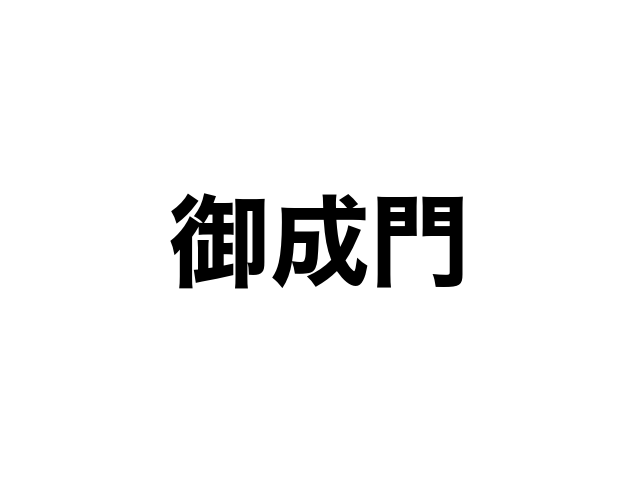
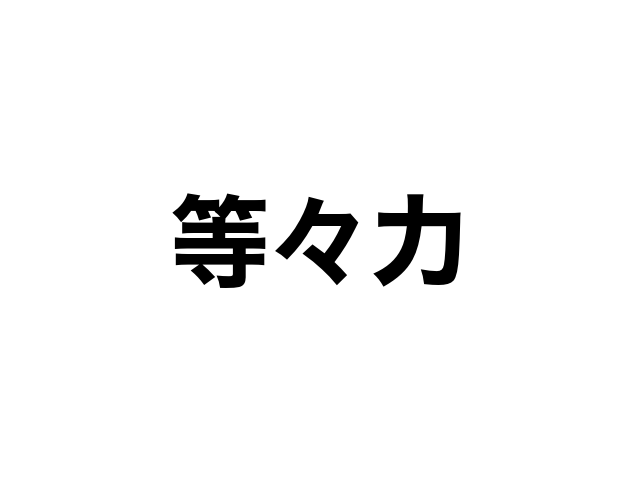
設問数を増やす場合に対応

Changed region(s): [[0.25, 0.4062, 0.75, 0.625]]

diff --git a/quizy.js b/quizy.js
@@ -1,64 +1,75 @@
 'use strict'
 
-// {
-//   document.getElementById("1-1").onclick = function () {
-//     let element = document.getElementById('1-1');
-//     console.log('aaa', window.getComputedStyle(element).getPropertyValue('font-size'))
-
-//     document.getElementById("1-1").style.fontSize = '20px' ;
-//     // console.log(document)
-
-//     // setTimeout(addClassTrue, 5*1000);
-
-//     //中身を表示させたタイミングで最新の情報を取りに行く
-//   };
-// }
-
 /*
-  関数を作る
-  1.ボタンがおされたときにクラス名を付ける
-  クラス名をつける関数を作成
-  button；引数
-  id；引数かつ変数
-  addClassの中で分岐を作る
-  2.たかなわだけの正誤判定
-  引数は複数可能
-
-  答えの場所がランダムに変わってかつそれを指すことができる
-
-  答えの場所を違う場所に設定
   data属性でvalid
-
-  1-1-2
-  1-2-2
-  1-3-2  答えのidを推測（右）⇒1-2-2を探して変更
-
-  一般性　ー答えの推測ー
-
 */
 
-function addClass(trueId, clickedId) {
-  document.getElementById(trueId).classList.add('true')
-  if (trueId == clickedId) {
-    document.getElementById("sucsess").classList.remove("correct");
-  } else {
-    document.getElementById("failed").classList.remove("wrong");
-    document.getElementById(clickedId).classList.add('false');
-  }
+const answers = ["たかなわ", "かめいど", "こうじまち"]
+
+const option = [
+  [answers[0], "こうわ", "たかわ"],
+  [answers[1], "かめど", "かめと"],
+  [answers[2], "おかとまち", "かゆまち"]
+]
+
+
+for (let i = 0; i < answers.length; i++) {
+  document.body.insertAdjacentHTML('beforeend', '<div class="main" id="main"></div>');
+  const main = document.getElementsByClassName("main")[i];
+  main.insertAdjacentHTML('beforeend', `<h1 class="question">${i + 1}. この地名はなんて読む？</h1>`);
+  main.insertAdjacentHTML('beforeend', `<div class="picture"><img src="question${i}.png" alt="高輪"></div>`);
+  main.insertAdjacentHTML('beforeend', '<div class="option-box" id="option-box"></div>');
+  const optionBox = document.getElementsByClassName("option-box")[i];
+    for (let j = 0; j < 3; j++) {
+      optionBox.insertAdjacentHTML('beforeend', `<h3 class="option" id="${i}_${j}" onclick="addClass('${i}', '${j}')">` + option[i][j] + "</h3>")
+    };
+  main.insertAdjacentHTML('beforeend', '<div class="answerBox correct" id="sucsess"></div>')
+  const sucsess = document.getElementsByClassName('correct')[i];
+  sucsess.insertAdjacentHTML('beforeend', '<p class="correctResult">正解！</p>')
+  sucsess.insertAdjacentHTML('beforeend', `<p class="answerSentence">正解は「${answers[i]}」です！</p>`)
+  main.insertAdjacentHTML('beforeend', '<div class="answerBox wrong" id="failed"></div>')
+  const failed = document.getElementsByClassName('wrong')[i];
+  failed.insertAdjacentHTML('beforeend', '<p class="wrongResult">不正解！</p>')
+  failed.insertAdjacentHTML('beforeend', `<p class="answerSentence">正解は「${answers[i]}」です！</p>`)1
+
 }
-
-// for (let index = 1; index < 5; index++) {
-//   console.log(`${index}-1`);
-// }
-
-// for (let index = 1; index < 5; index++) {
-//   const box = document.createElement('div'); //divタグの生成
-//   box.classList.add(`${index}-1`) //クラスを加える
-//   //
-//   document.getElementsByClassName('main')[0].insertAdjacentElement('beforeend', box)//挿入
-//   console.log(index);
-  
-//   for (let option = 1; option < 4; option++) {
-//     console.log(`${index}-${option}`);
+  function addClass(questionId, clickedId) {
+    let aaaaa = option[questionId].indexOf(answers[questionId]);
+    document.getElementById(questionId + "_" + aaaaa).classList.add('true');
+    console.log(aaaaa);
+    // document.getElementsByClassName().classList.add('true');
+    document.getElementsByClassName('option-box')[questionId].classList.add('clicked-option-box');
+    if (option[questionId][clickedId] === answers[questionId]) {
+      document.getElementsByClassName("answerBox")[2*questionId].classList.remove("correct");
+    } else {
+      document.getElementById(questionId + "_" + clickedId).classList.add("false");
+      document.getElementsByClassName("answerBox")[2*questionId+1].classList.remove("wrong");
+    }
+    
+    
+    // function addClass(optionId, clickedId) {
+      //   document.getElementById(optionId).classList.add('true');
+      //   document.getElementsByClassName('option-box')[i].classList.add('clicked-option-box');
+      //   if (optionId === clickedId) {
+        //     document.getElementsByClassName("answerBox")[2*i-1].classList.remove("correct");
+        //   } else {
+          //     document.getElementsByClassName("answerBox")[2*i].classList.remove("wrong");
+          //     document.getElementById(clickedId).classList.add('false');
+          //   }
+          // }
+        }
+        // for (let index = 1; index < 5; index++) {
+          //   console.log(`${index}-1`);
+          // }
+          
+          // for (let index = 1; index < 5; index++) {
+            //   const box = document.createElement('div'); //divタグの生成
+            //   box.classList.add(`${index}-1`) //クラスを加える
+            //   //
+            //   document.getElementsByClassName('main')[0].insertAdjacentElement('beforeend', box)//挿入
+            //   console.log(index);
+            
+            //   for (let option = 1; option < 4; option++) {
+              //     console.log(`${index}-${option}`);
 //   }
 // }

diff --git a/quizy.html b/quizy.html
@@ -11,15 +11,15 @@
 </head>
 
 <body>
-  <div class="main">
+  <!-- <div class="main" id="main1">
     <h1 class="question">1. この地名はなんて読む？</h1>
     <div class="picture">
       <img src="question1.png" alt="高輪">
     </div>
-    <div class="option-box">
-      <h3 class="option" id="1-1" onclick="addClass('1-1', '1-1')">たかなわ</h3>
-      <h3 class="option" id="1-2" onclick="addClass('1-1', '1-2')">こうわ</h3>
-      <h3 class="option" id="1-3" onclick="addClass('1-1', '1-3')">たかわ</h3>
+    <div class="option-box" id="option-box">
+      <h3 class="option" id="1" onclick="addClass('1', '1')">たかなわ</h3>
+      <h3 class="option" id="2" onclick="addClass('1', '2')">こうわ</h3>
+      <h3 class="option" id="3" onclick="addClass('1', '3')">たかわ</h3>
     </div>
 
     <div class="answerBox correct" id="sucsess">
@@ -30,24 +30,9 @@
     <div class="answerBox wrong" id="failed">
       <p class="wrongResult">不正解！</p>
       <p class="answerSentence">正解は「たかなわ」です！</p>
-      <p></p>
     </div>
-  </div>
+  </div> -->
   <script src="quizy.js"></script>
-
-  <!-- <div class="">
-        <li>
-          <ul>
-            <button class="option">たかなわ</button>
-          </ul>
-          <ul>
-            <button class="option">こうわ</button>
-          </ul>
-          <ul>
-            <button class="option">たかわ</button>
-          </ul>
-        </li>
-      </div> -->
 
 </body>
 

diff --git a/quizy.css b/quizy.css
@@ -101,3 +101,7 @@ img{
 .answerSentence{
   letter-spacing: 0.05em;
 }
+
+.clicked-option-box{
+  pointer-events: none;
+}
